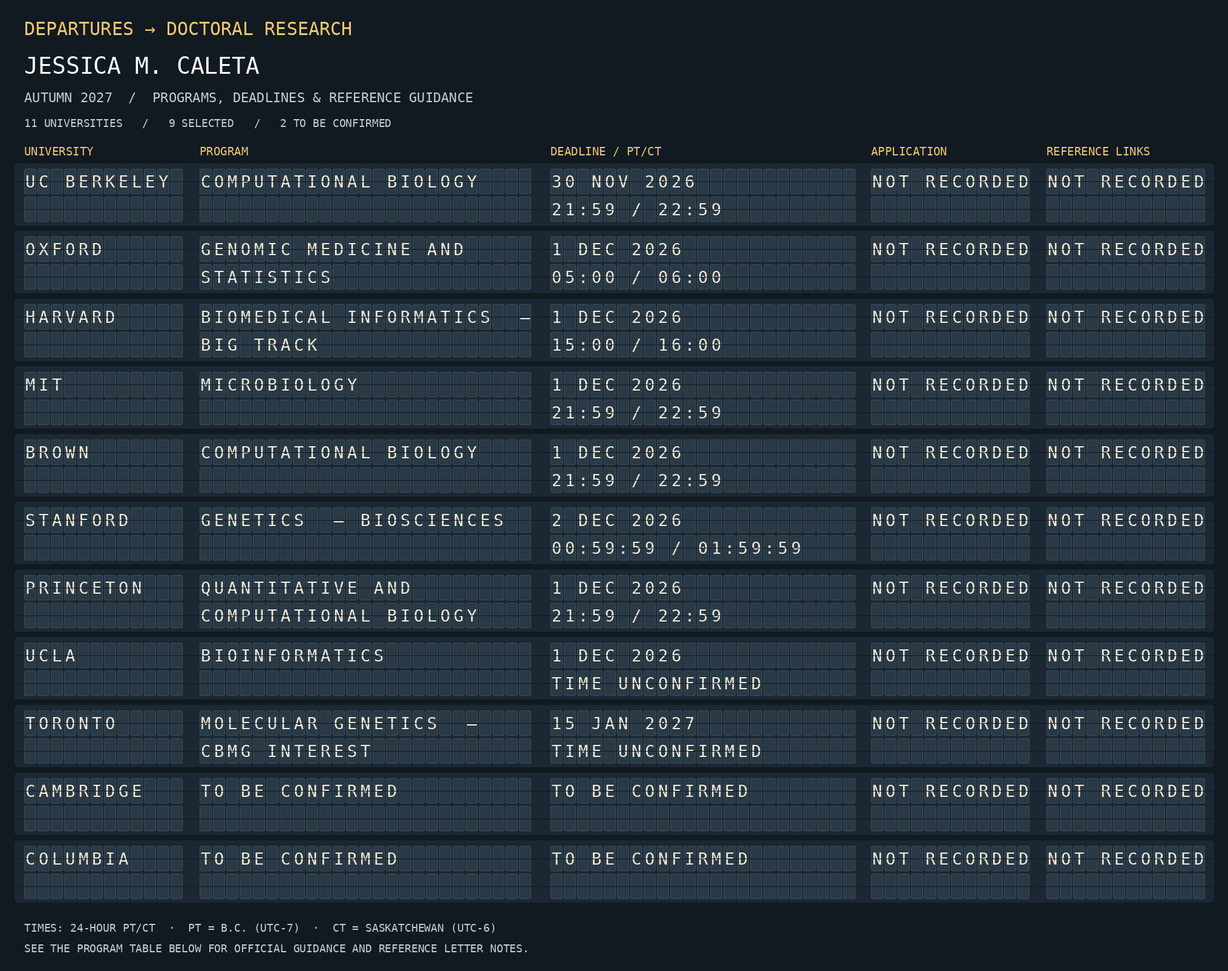
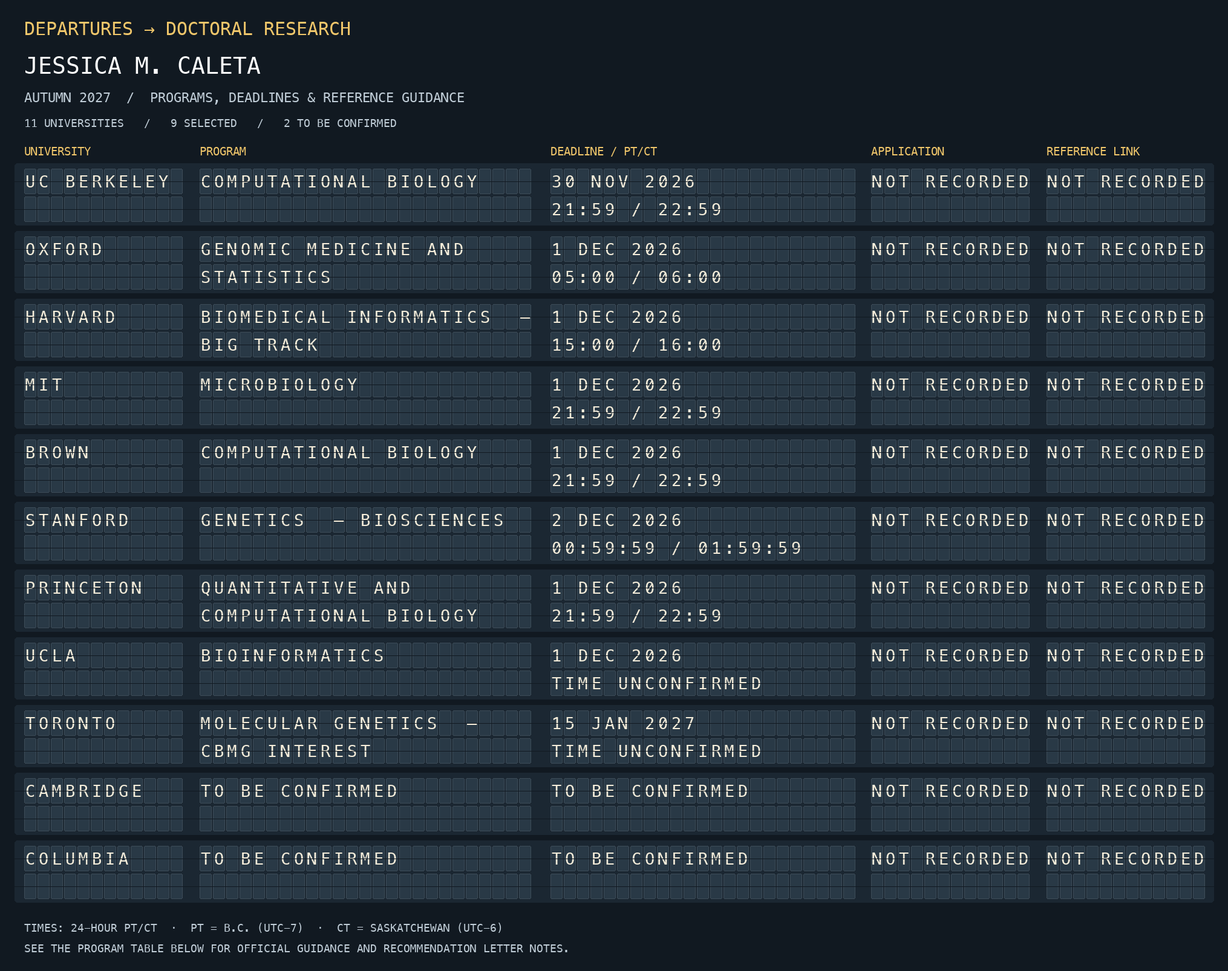
Improve recommendation letter tracking

diff --git a/scripts/render_board.py b/scripts/render_board.py
@@ -1,71 +1,71 @@
 """Render the landing page from Program_Info.md using only Python's standard library."""
+
 from pathlib import Path
-from html import escape
 import re
 
+
 ROOT = Path(__file__).resolve().parents[1]
-info = (ROOT / 'Program_Info.md').read_text()
+info = (ROOT / "Program_Info.md").read_text(encoding="utf-8")
+
 rows = []
 for line in info.splitlines():
-    if not line.startswith('| '):
+    if not line.startswith("| "):
         continue
-    cells = [c.strip() for c in line.strip('|').split('|')]
-    if len(cells) != 7 or cells[0] in ('University', '---'):
+    cells = [cell.strip() for cell in line.strip("|").split("|")]
+    if len(cells) != 7 or cells[0] in ("University", "---"):
         continue
     rows.append(cells)
-assert len(rows) > 0, 'No program rows found'
-updated = re.search(r'Updated ([^\n]+)', info)
-updated = updated.group(1) if updated else 'See program guide'
-readme='''# Jessica M. Caleta · PhD referee package
 
-<p align="center">
-<a href="Jessica_Caleta_Academic_CV.pdf"><img src="assets/academic-cv-sign.png" alt="Academic CV — qualifications and publications" width="32%"></a> 
-<a href="Research_Brief.md"><img src="assets/research-brief-sign.png" alt="Research brief — interests and experience" width="32%"></a> 
-<a href="Program_Info.md"><img src="assets/program-guide-sign.png" alt="Program guide — deadlines and references" width="32%"></a>
-</p>
+assert rows, "No program rows found"
 
-[![PhD application board — click to jump to linked programs and guidance](assets/application-board.gif)](#programs-deadlines--reference-letters)
+readme = """# Jessica M. Caleta · PhD referee package
 
-[View the still board](assets/application-board-still.png) · Up to four values flip at once, with five-second pauses. Letters start together and settle independently. Deadlines stay still; the full table below is always readable.
+![Academic CV — qualifications and publications](assets/academic-cv-sign.png) ![Research brief — interests and experience](assets/research-brief-sign.png) ![Program guide — deadlines and references](assets/program-guide-sign.png)
 
-Welcome, and thank you for supporting my autumn 2027 PhD applications. This page is the central reference for my program choices, deadlines, and application progress. The table below includes the official instructions for referees. Application status does not indicate whether a reference letter has been submitted.
+![PhD application board — click to jump to linked programs and guidance](assets/application-board.gif)
 
-'''
-# Keep the editable seven-column source, but present a compact four-column view.
-start=info.index('| University |')
-lines=info[start:].splitlines()
-last=0
-for i,line in enumerate(lines):
-    if line.startswith('| '): last=i
-suffix='\n'.join(lines[last+1:])
-intro=info[:start].replace('# PhD Programs, Deadlines & Reference Letter Guide','## Programs, deadlines & reference letters',1)
+Welcome, and thank you for supporting my autumn 2027 PhD applications. This page is the central reference for my program choices, deadlines, and application progress. The table below links to the best official recommendation-letter guidance available; applicant-facing pages are labeled. Application status does not indicate whether a recommendation letter has been submitted.
+
+"""
+
+table_start = info.index("| University |")
+table_lines = info[table_start:].splitlines()
+last_table_line = max(
+    index for index, line in enumerate(table_lines) if line.startswith("| ")
+)
+suffix = "\n".join(table_lines[last_table_line + 1 :])
+intro = info[:table_start].replace(
+    "# PhD Programs, Deadlines & Recommendation Letter Guide",
+    "## Programs, deadlines & recommendation letters",
+    1,
+)
+# Keep the landing page concise; the full source guide retains the deadline note.
+intro = re.sub(r"\*\*Deadline:\*\*.*?\n\n", "", intro)
+intro = intro.replace("These labels reflect the referees’ locations. ", "")
 readme += intro
-readme += '| University / program | Deadline | Progress | Referee guidance |\n| --- | --- | --- | --- |\n'
-notes=[]
-for uni,program,deadline,guidance,note,status,invitations in rows:
-    links=re.findall(r'\[([^]]+)\]\(([^)]+)\)',guidance)
-    primary='[Instructions]('+links[0][1]+')' if links else guidance
-    anchor=re.sub(r'[^a-z0-9]+','-',uni.lower()).strip('-')+'-notes'
-    if note not in ('—','') or len(links)>1:
-        primary += '<br>[Notes & sources](#'+anchor+')'
-        extra=' · '.join('['+label+']('+url+')' for label,url in links[1:])
-        notes.append('### '+uni+' notes\n\n'+(note+'\n\n' if note not in ('—','') else '')+extra+'\n')
-    shown='Not recorded' if status in ('—','') else status
-    deadline=deadline.replace(' / ','<br>')
-    progress='**Application:** '+shown+'<br>**Links:** '+invitations
-    readme += '| **'+uni+'**<br>'+program+' | '+deadline+' | '+progress+' | '+primary+' |\n'
-readme += '\n'+suffix+'\n\n## Reference notes & sources\n\n'+'\n'.join(notes)
 
-readme += '''
+readme += (
+    "| University | Program | Deadline | Recommendation letter guidelines | "
+    "Application status | Reference link status | Notes |\n"
+    "| --- | --- | --- | --- | --- | --- | --- |\n"
+)
 
-<details>
-<summary>Updating the board</summary>
+for university, program, deadline, guidance, status, link_status, note in rows:
+    note = "" if note in ("—", "") else note
+    readme += (
+        f"| **{university}** | {program} | {deadline.replace(' / ', '<br>')} | "
+        f"{guidance} | {status} | {link_status} | {note} |\n"
+    )
 
-Edit the **Application status** and **Reference links sent** columns in [Program_Info.md](Program_Info.md), then commit the change to `main`. Use “In progress”, “Submitted (date)”, or “Withdrawn”, as appropriate. Keep an unrecorded status as “—”. You can also update program choices, deadlines, and notes in the same file, including the date at the top.
+readme += f"\n{suffix}\n"
+readme += """
 
-GitHub Actions refreshes this landing page and its board after each edit. To regenerate locally, run `python3 scripts/render_board.py` followed by `python3 scripts/render_animation.py` (requires Pillow). The full table preserves the exact status wording and all guidance links.
+Updating the board
 
-</details>
-'''
-(ROOT/'README.md').write_text(readme)
-print(f'Rendered {len(rows)} programs from Program_Info.md')
+Edit the **Application status** and **Reference link status** columns in [Program_Info.md](Program_Info.md), then commit the change to `main`. For reference links, use only “Sent”, “Not sent”, or “Not recorded”. You can also update program choices, deadlines, and notes in the same file, including the date at the top.
+
+GitHub Actions refreshes this landing page and its board after each edit. To regenerate locally, run `uv run python scripts/render_board.py` followed by `uv run --with pillow python scripts/render_animation.py`. The full table preserves the exact status wording and all guidance links.
+"""
+
+(ROOT / "README.md").write_text(readme, encoding="utf-8")
+print(f"Rendered {len(rows)} programs from Program_Info.md")

diff --git a/scripts/render_animation.py b/scripts/render_animation.py
@@ -32,7 +32,7 @@ label(40,86,'JESSICA M. CALETA',38,'#ffffff')
 label(40,148,'AUTUMN 2027  /  PROGRAMS, DEADLINES & REFERENCE GUIDANCE',22)
 pending=sum(r[1]=='TBD' for r in rows)
 label(40,193,f'{len(rows)} UNIVERSITIES   /   {len(rows)-pending} SELECTED   /   {pending} TO BE CONFIRMED',18)
-for (kind,x,n),name in zip(COLS,['UNIVERSITY','PROGRAM','DEADLINE / PT/CT','APPLICATION','REFERENCE LINKS']):label(x,239,name,19,'#f0c66a')
+for (kind,x,n),name in zip(COLS,['UNIVERSITY','PROGRAM','DEADLINE / PT/CT','APPLICATION','REFERENCE LINK']):label(x,239,name,19,'#f0c66a')
 
 @lru_cache(maxsize=128)
 def card(ch):
@@ -52,7 +52,7 @@ def lines_for(value,width):
     return result
 
 groups={}
-for i,(uni,program,deadline,guidance,notes,status,links) in enumerate(rows):
+for i,(uni,program,deadline,guidance,status,links,notes) in enumerate(rows):
     y=TOP+i*ROW
     d.rounded_rectangle((24,y,W-24,y+ROW-10),radius=5,fill='#1b2732')
     prog=plain(program).replace('PhD','').replace('DPhil in ','').strip(' —')
@@ -89,7 +89,7 @@ for i,(uni,program,deadline,guidance,notes,status,links) in enumerate(rows):
                 if ch!=' ':slots.append((pos,ch))
         groups[(i,kind)]=slots
 label(40,H-82,'TIMES: 24-HOUR PT/CT  ·  PT = B.C. (UTC-7)  ·  CT = SASKATCHEWAN (UTC-6)',18)
-label(40,H-48,'SEE THE PROGRAM TABLE BELOW FOR OFFICIAL GUIDANCE AND REFERENCE LETTER NOTES.',18)
+label(40,H-48,'SEE THE PROGRAM TABLE BELOW FOR OFFICIAL GUIDANCE AND RECOMMENDATION LETTER NOTES.',18)
 base.save(ROOT/'assets/application-board-still.png')
 palette=base.quantize(colors=128)
 def quant(im):return im.quantize(palette=palette,dither=Image.Dither.NONE)

diff --git a/README.md b/README.md
@@ -1,118 +1,43 @@
 # Jessica M. Caleta · PhD referee package
 
-<p align="center">
-<a href="Jessica_Caleta_Academic_CV.pdf"><img src="assets/academic-cv-sign.png" alt="Academic CV — qualifications and publications" width="32%"></a> 
-<a href="Research_Brief.md"><img src="assets/research-brief-sign.png" alt="Research brief — interests and experience" width="32%"></a> 
-<a href="Program_Info.md"><img src="assets/program-guide-sign.png" alt="Program guide — deadlines and references" width="32%"></a>
-</p>
+![Academic CV — qualifications and publications](assets/academic-cv-sign.png) ![Research brief — interests and experience](assets/research-brief-sign.png) ![Program guide — deadlines and references](assets/program-guide-sign.png)
 
-[![PhD application board — click to jump to linked programs and guidance](assets/application-board.gif)](#programs-deadlines--reference-letters)
+![PhD application board — click to jump to linked programs and guidance](assets/application-board.gif)
 
-[View the still board](assets/application-board-still.png) · Up to four values flip at once, with five-second pauses. Letters start together and settle independently. Deadlines stay still; the full table below is always readable.
+Welcome, and thank you for supporting my autumn 2027 PhD applications. This page is the central reference for my program choices, deadlines, and application progress. The table below links to the best official recommendation-letter guidance available; applicant-facing pages are labeled. Application status does not indicate whether a recommendation letter has been submitted.
 
-Welcome, and thank you for supporting my autumn 2027 PhD applications. This page is the central reference for my program choices, deadlines, and application progress. The table below includes the official instructions for referees. Application status does not indicate whether a reference letter has been submitted.
-
-## Programs, deadlines & reference letters
+## Programs, deadlines & recommendation letters
 
 Jessica M. Caleta · Autumn 2027 entry · Updated 28 October 2026
 
-**Deadline:** Please submit both the application and reference letters by the listed deadline unless the notes specify otherwise. Dates without a verified cutoff time are shown as published, not converted from an assumed midnight.
+**Time zones:** PT means B.C./Vancouver Pacific time (UTC−7), and CT means Saskatchewan Central Standard Time (UTC−6). B.C. now remains on UTC−7, so PT here differs from California’s winter PST (UTC−8). [B.C. time guidance](https://www2.gov.bc.ca/gov/content/governments/celebrating-british-columbia/daylight-saving-time) · [Saskatchewan time guidance](https://www.timeanddate.com/time/zone/canada/saskatchewan).
 
-**Time zones:** PT means B.C./Vancouver Pacific time (UTC−7), and CT means Saskatchewan Central Standard Time (UTC−6). These labels reflect the referees’ locations. B.C. now remains on UTC−7, so PT here differs from California’s winter PST (UTC−8). [B.C. time guidance](https://www2.gov.bc.ca/gov/content/governments/celebrating-british-columbia/daylight-saving-time) · [Saskatchewan time guidance](https://www.timeanddate.com/time/zone/canada/saskatchewan).
+**Application status:** Use “Not started”, “In progress”, “Submitted (date)”, “Withdrawn”, or “Not recorded”. Application submission and reference submission are separate actions.
 
-**Application status:** Jessica can replace “—” with Not started, In progress, Submitted (date), or Withdrawn. A blank status means not yet recorded, not necessarily unstarted. Application submission and reference submission are separate actions.
+**Reference link status:** Use only “Sent”, “Not sent”, or “Not recorded”. “Not recorded” means the invitation status has not been updated. If a row says “Sent” and your invitation is missing, please check spam and contact Jessica for a resend. This tracks invitation links, not completed letters.
 
-**Reference links sent:** Use “Not sent”, “Partly sent (date)”, or “Sent to all (date)” after checking the portal. “Not recorded” means invitation status has not been updated. If a row says “Sent to all” and your invitation is missing, please check spam and contact Jessica for a resend. This tracks invitations, not completed letters.
-
-| University / program | Deadline | Progress | Referee guidance |
-| --- | --- | --- | --- |
-| **UC Berkeley**<br>[Computational Biology PhD](https://ccb.berkeley.edu/academics/computational-biology-phd) | 30 Nov 2026<br>9:59 p.m. PT<br>10:59 p.m. CT | **Application:** Not recorded<br>**Links:** Not recorded | [Instructions](https://ccb.berkeley.edu/node/175)<br>[Notes & sources](#uc-berkeley-notes) |
-| **Oxford**<br>[DPhil in Genomic Medicine and Statistics](https://www.ox.ac.uk/admissions/graduate/courses/dphil-genomic-medicine-and-statistics) | 1 Dec 2026<br>5 a.m. PT<br>6 a.m. CT | **Application:** Not recorded<br>**Links:** Not recorded | [Instructions](https://www.ox.ac.uk/admissions/graduate/application-guide/references/information-for-referees)<br>[Notes & sources](#oxford-notes) |
-| **Harvard**<br>[Biomedical Informatics PhD — BIG track](https://bmiphd.hms.harvard.edu/welcome-big) | 1 Dec 2026<br>3 p.m. PT<br>4 p.m. CT | **Application:** Not recorded<br>**Links:** Not recorded | [Instructions](https://gsas.harvard.edu/apply/applying-degree-programs/letters-recommendation)<br>[Notes & sources](#harvard-notes) |
-| **MIT**<br>[Microbiology PhD](https://oge.mit.edu/programs/microbiology/) | 1 Dec 2026<br>9:59 p.m. PT<br>10:59 p.m. CT | **Application:** Not recorded<br>**Links:** Not recorded | [Instructions](https://microbiology.mit.edu/graduate-program/how-to-apply/)<br>[Notes & sources](#mit-notes) |
-| **Brown**<br>[Computational Biology PhD](https://graduateprograms.brown.edu/graduate-program/computational-biology-phd) | 1 Dec 2026<br>9:59 p.m. PT<br>10:59 p.m. CT | **Application:** Not recorded<br>**Links:** Not recorded | [Instructions](https://graduateschool.brown.edu/apply/application-faqs)<br>[Notes & sources](#brown-notes) |
-| **Stanford**<br>[Genetics PhD — Biosciences](https://med.stanford.edu/genetics/education.html) | 2 Dec 2026<br>12:59:59 a.m. PT<br>1:59:59 a.m. CT | **Application:** Not recorded<br>**Links:** Not recorded | [Instructions](https://biosciences.stanford.edu/how-to-apply/)<br>[Notes & sources](#stanford-notes) |
-| **Princeton**<br>[Quantitative and Computational Biology PhD](https://gradschool.princeton.edu/academics/degrees-requirements/fields-study/quantitative-and-computational-biology) | 1 Dec 2026<br>9:59 p.m. PT<br>10:59 p.m. CT | **Application:** Not recorded<br>**Links:** Not recorded | [Instructions](https://gradschool.princeton.edu/admission-onboarding/prepare/letters-recommendation)<br>[Notes & sources](#princeton-notes) |
-| **UCLA**<br>[Bioinformatics PhD](https://grad.ucla.edu/programs/life-sciences/bioinformatics-department/bioinformatics/) | 1 Dec 2026 — time not published/verified | **Application:** Not recorded<br>**Links:** Not recorded | [Instructions](https://bioinformatics.ucla.edu/admissions-for-the-bioinformatics-program/)<br>[Notes & sources](#ucla-notes) |
-| **Toronto**<br>[Molecular Genetics PhD — CBMG interest](https://www.sgs.utoronto.ca/programs/molecular-genetics/) | 15 Jan 2027 — time not published/verified | **Application:** Not recorded<br>**Links:** Not recorded | [Instructions](https://moleculargenetics.utoronto.ca/grad-application-procedures)<br>[Notes & sources](#toronto-notes) |
-| **Cambridge**<br>TBD | TBD — depends on program | **Application:** Not recorded<br>**Links:** Not recorded | [Instructions](https://www.postgraduate.study.cam.ac.uk/apply/how/academic-referees)<br>[Notes & sources](#cambridge-notes) |
-| **Columbia**<br>TBD | TBD — depends on program | **Application:** Not recorded<br>**Links:** Not recorded | [Instructions](https://www.gsas.columbia.edu/content/frequently-asked-questions)<br>[Notes & sources](#columbia-notes) |
+| University | Program | Deadline | Recommendation letter guidelines | Application status | Reference link status | Notes |
+| --- | --- | --- | --- | --- | --- | --- |
+| **UC Berkeley** | [Computational Biology PhD](https://ccb.berkeley.edu/academics/computational-biology-phd) | 30 Nov 2026<br>9:59 p.m. PT<br>10:59 p.m. CT | [General letter-writing guidance for referees](https://gsi.berkeley.edu/gsi-guide-contents/fostering-your-professional-development/writing-letters-of-recommendation/) · [Computational Biology letter criteria (applicant-facing)](https://ccb.berkeley.edu/academics/computational-biology-phd/application-tips) | Not recorded | Not recorded | [Late letters are accepted, but review may proceed without them](https://ccb.berkeley.edu/academics/computational-biology-phd/phd-admissions). |
+| **Oxford** | [DPhil in Genomic Medicine and Statistics](https://www.ox.ac.uk/admissions/graduate/courses/dphil-genomic-medicine-and-statistics) | 1 Dec 2026<br>5 a.m. PT<br>6 a.m. CT | [Official instructions for referees](https://www.ox.ac.uk/admissions/graduate/application-guide/references/information-for-referees) | Not recorded | Not recorded |  |
+| **Harvard** | [Biomedical Informatics PhD — BIG track](https://bmiphd.hms.harvard.edu/welcome-big) | 1 Dec 2026<br>3 p.m. PT<br>4 p.m. CT | [GSAS letter requirements (applicant-facing)](https://gsas.harvard.edu/apply/applying-degree-programs/letters-recommendation) | Not recorded | Not recorded |  |
+| **MIT** | [Microbiology PhD](https://oge.mit.edu/programs/microbiology/) | 1 Dec 2026<br>9:59 p.m. PT<br>10:59 p.m. CT | [Microbiology letter requirements (applicant-facing)](https://microbiology.mit.edu/graduate-program/how-to-apply/) | Not recorded | Not recorded |  |
+| **Brown** | [Computational Biology PhD](https://graduateprograms.brown.edu/graduate-program/computational-biology-phd) | 1 Dec 2026<br>9:59 p.m. PT<br>10:59 p.m. CT | [Computational Biology letter criteria (applicant-facing)](https://ccmb.brown.edu/academics/graduate-program/application-information) | Not recorded | Not recorded |  |
+| **Stanford** | [Genetics PhD — Biosciences](https://med.stanford.edu/genetics/education.html) | 2 Dec 2026<br>12:59:59 a.m. PT<br>1:59:59 a.m. CT | [Recommendation form and letter prompt](https://gradadmissions.stanford.edu/apply/recommendations) | Not recorded | Not recorded |  |
+| **Princeton** | [Quantitative and Computational Biology PhD](https://gradschool.princeton.edu/academics/degrees-requirements/fields-study/quantitative-and-computational-biology) | 1 Dec 2026<br>9:59 p.m. PT<br>10:59 p.m. CT | [Graduate School letter requirements (applicant-facing)](https://gradschool.princeton.edu/admission-onboarding/prepare/letters-recommendation) | Not recorded | Not recorded |  |
+| **UCLA** | [Bioinformatics PhD](https://grad.ucla.edu/programs/life-sciences/bioinformatics-department/bioinformatics/) | 1 Dec 2026 — time not published/verified | [Bioscience recommender criteria (applicant-facing)](https://bioscience.ucla.edu/application-procedure/) | Not recorded | Not recorded | [Letters may arrive later, but no exact separate cutoff is published](https://grad.ucla.edu/admissions/faqs/). |
+| **Toronto** | [Molecular Genetics PhD — CBMG interest](https://www.sgs.utoronto.ca/programs/molecular-genetics/) | 15 Jan 2027 — time not published/verified | [Molecular Genetics reference criteria (applicant-facing)](https://moleculargenetics.utoronto.ca/grad-application-procedures) | Not recorded | Not recorded |  |
+| **Cambridge** | TBD | TBD — depends on program | [Official guidance for academic referees](https://www.postgraduate.study.cam.ac.uk/apply/how/academic-referees) | Not recorded | Not recorded |  |
+| **Columbia** | TBD | TBD — depends on program | [GSAS recommendation requirements (applicant-facing)](https://www.gsas.columbia.edu/content/admissions-supporting-materials) | Not recorded | Not recorded | [Letters should arrive by the program deadline, but GSAS allows up to two weeks afterward](https://www.gsas.columbia.edu/content/admissions-supporting-materials). |
 
 
 **Submitting letters:** Each university sends an individual submission link to each registered referee. Use that emailed link to upload the letter. The guidance links above are public instructions, not personal upload links.
 
 Cambridge and Columbia are included for planning only until their programs are finalized. This table is the source of truth for programs, deadlines, and application status. Jessica will update it centrally as applications progress.
 
-## Reference notes & sources
 
-### UC Berkeley notes
+Updating the board
 
-Late letter uploads are accepted, but review may proceed without them. Submit by the listed deadline.
+Edit the **Application status** and **Reference link status** columns in [Program_Info.md](Program_Info.md), then commit the change to `main`. For reference links, use only “Sent”, “Not sent”, or “Not recorded”. You can also update program choices, deadlines, and notes in the same file, including the date at the top.
 
-
-
-### Oxford notes
-
-[Program deadline](https://www.ox.ac.uk/admissions/graduate/courses/dphil-genomic-medicine-and-statistics)
-
-### Harvard notes
-
-[BIG deadline](https://bmiphd.hms.harvard.edu/apply)
-
-### MIT notes
-
-Annual published deadline. Confirm the 2027-entry cutoff in the portal.
-
-[Deadline](https://oge.mit.edu/programs/microbiology/)
-
-### Brown notes
-
-No separate letter deadline. Letters should arrive as close to the application deadline as possible for full consideration. No guaranteed grace period.
-
-[Program deadline](https://graduateprograms.brown.edu/graduate-program/computational-biology-phd) · [Cutoff time](https://apply.graduateschool.brown.edu/portal/program_explorer)
-
-### Stanford notes
-
-Converted deadline falls on 2 Dec locally (1 Dec in California).
-
-
-
-### Princeton notes
-
-Separate letter cutoff not verified. Use the listed deadline.
-
-[Program deadline](https://gradschool.princeton.edu/academics/degrees-requirements/fields-study/quantitative-and-computational-biology)
-
-### UCLA notes
-
-Cutoff time and separate letter deadline not verified.
-
-[Program deadline](https://grad.ucla.edu/programs/life-sciences/bioinformatics-department/bioinformatics/)
-
-### Toronto notes
-
-Canadian citizen/permanent resident deadline. Confirm Molecular Genetics/CBMG entry route and referee eligibility.
-
-[Deadline](https://moleculargenetics.utoronto.ca/grad-deadlines)
-
-### Cambridge notes
-
-Program selection pending.
-
-[Reference requirements](https://www.postgraduate.study.cam.ac.uk/apply/how/references)
-
-### Columbia notes
-
-General GSAS guidance only. Confirm the relevant graduate school and program-specific instructions once selected.
-
-
-
-
-<details>
-<summary>Updating the board</summary>
-
-Edit the **Application status** and **Reference links sent** columns in [Program_Info.md](Program_Info.md), then commit the change to `main`. Use “In progress”, “Submitted (date)”, or “Withdrawn”, as appropriate. Keep an unrecorded status as “—”. You can also update program choices, deadlines, and notes in the same file, including the date at the top.
-
-GitHub Actions refreshes this landing page and its board after each edit. To regenerate locally, run `python3 scripts/render_board.py` followed by `python3 scripts/render_animation.py` (requires Pillow). The full table preserves the exact status wording and all guidance links.
-
-</details>
+GitHub Actions refreshes this landing page and its board after each edit. To regenerate locally, run `uv run python scripts/render_board.py` followed by `uv run --with pillow python scripts/render_animation.py`. The full table preserves the exact status wording and all guidance links.

diff --git a/Program_Info.md b/Program_Info.md
@@ -1,28 +1,28 @@
-# PhD Programs, Deadlines & Reference Letter Guide
+# PhD Programs, Deadlines & Recommendation Letter Guide
 
 Jessica M. Caleta · Autumn 2027 entry · Updated 28 October 2026
 
-**Deadline:** Please submit both the application and reference letters by the listed deadline unless the notes specify otherwise. Dates without a verified cutoff time are shown as published, not converted from an assumed midnight.
+**Deadline:** Please submit both the application and recommendation letters by the listed deadline unless the notes specify otherwise. Dates without a verified cutoff time are shown as published, not converted from an assumed midnight.
 
 **Time zones:** PT means B.C./Vancouver Pacific time (UTC−7), and CT means Saskatchewan Central Standard Time (UTC−6). These labels reflect the referees’ locations. B.C. now remains on UTC−7, so PT here differs from California’s winter PST (UTC−8). [B.C. time guidance](https://www2.gov.bc.ca/gov/content/governments/celebrating-british-columbia/daylight-saving-time) · [Saskatchewan time guidance](https://www.timeanddate.com/time/zone/canada/saskatchewan).
 
-**Application status:** Jessica can replace “—” with Not started, In progress, Submitted (date), or Withdrawn. A blank status means not yet recorded, not necessarily unstarted. Application submission and reference submission are separate actions.
+**Application status:** Use “Not started”, “In progress”, “Submitted (date)”, “Withdrawn”, or “Not recorded”. Application submission and reference submission are separate actions.
 
-**Reference links sent:** Use “Not sent”, “Partly sent (date)”, or “Sent to all (date)” after checking the portal. “Not recorded” means invitation status has not been updated. If a row says “Sent to all” and your invitation is missing, please check spam and contact Jessica for a resend. This tracks invitations, not completed letters.
+**Reference link status:** Use only “Sent”, “Not sent”, or “Not recorded”. “Not recorded” means the invitation status has not been updated. If a row says “Sent” and your invitation is missing, please check spam and contact Jessica for a resend. This tracks invitation links, not completed letters.
 
-| University | Program | Deadline (PT / CT) | Official referee guidance | Notes | Application status | Reference links sent |
+| University | Program | Deadline (PT / CT) | Recommendation letter guidelines | Application status | Reference link status | Notes |
 | --- | --- | --- | --- | --- | --- | --- |
-| UC Berkeley | [Computational Biology PhD](https://ccb.berkeley.edu/academics/computational-biology-phd) | 30 Nov 2026<br>9:59 p.m. PT / 10:59 p.m. CT | [Letter requirements & deadline](https://ccb.berkeley.edu/node/175) | Late letter uploads are accepted, but review may proceed without them. Submit by the listed deadline. | — | Not recorded |
-| Oxford | [DPhil in Genomic Medicine and Statistics](https://www.ox.ac.uk/admissions/graduate/courses/dphil-genomic-medicine-and-statistics) | 1 Dec 2026<br>5 a.m. PT / 6 a.m. CT | [Referee instructions](https://www.ox.ac.uk/admissions/graduate/application-guide/references/information-for-referees) · [Program deadline](https://www.ox.ac.uk/admissions/graduate/courses/dphil-genomic-medicine-and-statistics) | — | — | Not recorded |
-| Harvard | [Biomedical Informatics PhD — BIG track](https://bmiphd.hms.harvard.edu/welcome-big) | 1 Dec 2026<br>3 p.m. PT / 4 p.m. CT | [Recommendation instructions](https://gsas.harvard.edu/apply/applying-degree-programs/letters-recommendation) · [BIG deadline](https://bmiphd.hms.harvard.edu/apply) | — | — | Not recorded |
-| MIT | [Microbiology PhD](https://oge.mit.edu/programs/microbiology/) | 1 Dec 2026<br>9:59 p.m. PT / 10:59 p.m. CT | [Letter requirements](https://microbiology.mit.edu/graduate-program/how-to-apply/) · [Deadline](https://oge.mit.edu/programs/microbiology/) | Annual published deadline. Confirm the 2027-entry cutoff in the portal. | — | Not recorded |
-| Brown | [Computational Biology PhD](https://graduateprograms.brown.edu/graduate-program/computational-biology-phd) | 1 Dec 2026<br>9:59 p.m. PT / 10:59 p.m. CT | [Reference timing FAQ](https://graduateschool.brown.edu/apply/application-faqs) · [Program deadline](https://graduateprograms.brown.edu/graduate-program/computational-biology-phd) · [Cutoff time](https://apply.graduateschool.brown.edu/portal/program_explorer) | No separate letter deadline. Letters should arrive as close to the application deadline as possible for full consideration. No guaranteed grace period. | — | Not recorded |
-| Stanford | [Genetics PhD — Biosciences](https://med.stanford.edu/genetics/education.html) | 2 Dec 2026<br>12:59:59 a.m. PT / 1:59:59 a.m. CT | [Recommendation instructions & deadline](https://biosciences.stanford.edu/how-to-apply/) | Converted deadline falls on 2 Dec locally (1 Dec in California). | — | Not recorded |
-| Princeton | [Quantitative and Computational Biology PhD](https://gradschool.princeton.edu/academics/degrees-requirements/fields-study/quantitative-and-computational-biology) | 1 Dec 2026<br>9:59 p.m. PT / 10:59 p.m. CT | [Recommendation instructions](https://gradschool.princeton.edu/admission-onboarding/prepare/letters-recommendation) · [Program deadline](https://gradschool.princeton.edu/academics/degrees-requirements/fields-study/quantitative-and-computational-biology) | Separate letter cutoff not verified. Use the listed deadline. | — | Not recorded |
-| UCLA | [Bioinformatics PhD](https://grad.ucla.edu/programs/life-sciences/bioinformatics-department/bioinformatics/) | 1 Dec 2026 — time not published/verified | [Letter requirements](https://bioinformatics.ucla.edu/admissions-for-the-bioinformatics-program/) · [Program deadline](https://grad.ucla.edu/programs/life-sciences/bioinformatics-department/bioinformatics/) | Cutoff time and separate letter deadline not verified. | — | Not recorded |
-| Toronto | [Molecular Genetics PhD — CBMG interest](https://www.sgs.utoronto.ca/programs/molecular-genetics/) | 15 Jan 2027 — time not published/verified | [Reference requirements](https://moleculargenetics.utoronto.ca/grad-application-procedures) · [Deadline](https://moleculargenetics.utoronto.ca/grad-deadlines) | Canadian citizen/permanent resident deadline. Confirm Molecular Genetics/CBMG entry route and referee eligibility. | — | Not recorded |
-| Cambridge | TBD | TBD — depends on program | [Referee guidance](https://www.postgraduate.study.cam.ac.uk/apply/how/academic-referees) · [Reference requirements](https://www.postgraduate.study.cam.ac.uk/apply/how/references) | Program selection pending. | — | Not recorded |
-| Columbia | TBD | TBD — depends on program | [GSAS recommendation FAQ](https://www.gsas.columbia.edu/content/frequently-asked-questions) | General GSAS guidance only. Confirm the relevant graduate school and program-specific instructions once selected. | — | Not recorded |
+| UC Berkeley | [Computational Biology PhD](https://ccb.berkeley.edu/academics/computational-biology-phd) | 30 Nov 2026<br>9:59 p.m. PT / 10:59 p.m. CT | [General letter-writing guidance for referees](https://gsi.berkeley.edu/gsi-guide-contents/fostering-your-professional-development/writing-letters-of-recommendation/) · [Computational Biology letter criteria (applicant-facing)](https://ccb.berkeley.edu/academics/computational-biology-phd/application-tips) | Not recorded | Not recorded | [Late letters are accepted, but review may proceed without them](https://ccb.berkeley.edu/academics/computational-biology-phd/phd-admissions). |
+| Oxford | [DPhil in Genomic Medicine and Statistics](https://www.ox.ac.uk/admissions/graduate/courses/dphil-genomic-medicine-and-statistics) | 1 Dec 2026<br>5 a.m. PT / 6 a.m. CT | [Official instructions for referees](https://www.ox.ac.uk/admissions/graduate/application-guide/references/information-for-referees) | Not recorded | Not recorded | — |
+| Harvard | [Biomedical Informatics PhD — BIG track](https://bmiphd.hms.harvard.edu/welcome-big) | 1 Dec 2026<br>3 p.m. PT / 4 p.m. CT | [GSAS letter requirements (applicant-facing)](https://gsas.harvard.edu/apply/applying-degree-programs/letters-recommendation) | Not recorded | Not recorded | — |
+| MIT | [Microbiology PhD](https://oge.mit.edu/programs/microbiology/) | 1 Dec 2026<br>9:59 p.m. PT / 10:59 p.m. CT | [Microbiology letter requirements (applicant-facing)](https://microbiology.mit.edu/graduate-program/how-to-apply/) | Not recorded | Not recorded | — |
+| Brown | [Computational Biology PhD](https://graduateprograms.brown.edu/graduate-program/computational-biology-phd) | 1 Dec 2026<br>9:59 p.m. PT / 10:59 p.m. CT | [Computational Biology letter criteria (applicant-facing)](https://ccmb.brown.edu/academics/graduate-program/application-information) | Not recorded | Not recorded | — |
+| Stanford | [Genetics PhD — Biosciences](https://med.stanford.edu/genetics/education.html) | 2 Dec 2026<br>12:59:59 a.m. PT / 1:59:59 a.m. CT | [Recommendation form and letter prompt](https://gradadmissions.stanford.edu/apply/recommendations) | Not recorded | Not recorded | — |
+| Princeton | [Quantitative and Computational Biology PhD](https://gradschool.princeton.edu/academics/degrees-requirements/fields-study/quantitative-and-computational-biology) | 1 Dec 2026<br>9:59 p.m. PT / 10:59 p.m. CT | [Graduate School letter requirements (applicant-facing)](https://gradschool.princeton.edu/admission-onboarding/prepare/letters-recommendation) | Not recorded | Not recorded | — |
+| UCLA | [Bioinformatics PhD](https://grad.ucla.edu/programs/life-sciences/bioinformatics-department/bioinformatics/) | 1 Dec 2026 — time not published/verified | [Bioscience recommender criteria (applicant-facing)](https://bioscience.ucla.edu/application-procedure/) | Not recorded | Not recorded | [Letters may arrive later, but no exact separate cutoff is published](https://grad.ucla.edu/admissions/faqs/). |
+| Toronto | [Molecular Genetics PhD — CBMG interest](https://www.sgs.utoronto.ca/programs/molecular-genetics/) | 15 Jan 2027 — time not published/verified | [Molecular Genetics reference criteria (applicant-facing)](https://moleculargenetics.utoronto.ca/grad-application-procedures) | Not recorded | Not recorded | — |
+| Cambridge | TBD | TBD — depends on program | [Official guidance for academic referees](https://www.postgraduate.study.cam.ac.uk/apply/how/academic-referees) | Not recorded | Not recorded | — |
+| Columbia | TBD | TBD — depends on program | [GSAS recommendation requirements (applicant-facing)](https://www.gsas.columbia.edu/content/admissions-supporting-materials) | Not recorded | Not recorded | [Letters should arrive by the program deadline, but GSAS allows up to two weeks afterward](https://www.gsas.columbia.edu/content/admissions-supporting-materials). |
 
 **Submitting letters:** Each university sends an individual submission link to each registered referee. Use that emailed link to upload the letter. The guidance links above are public instructions, not personal upload links.
 
